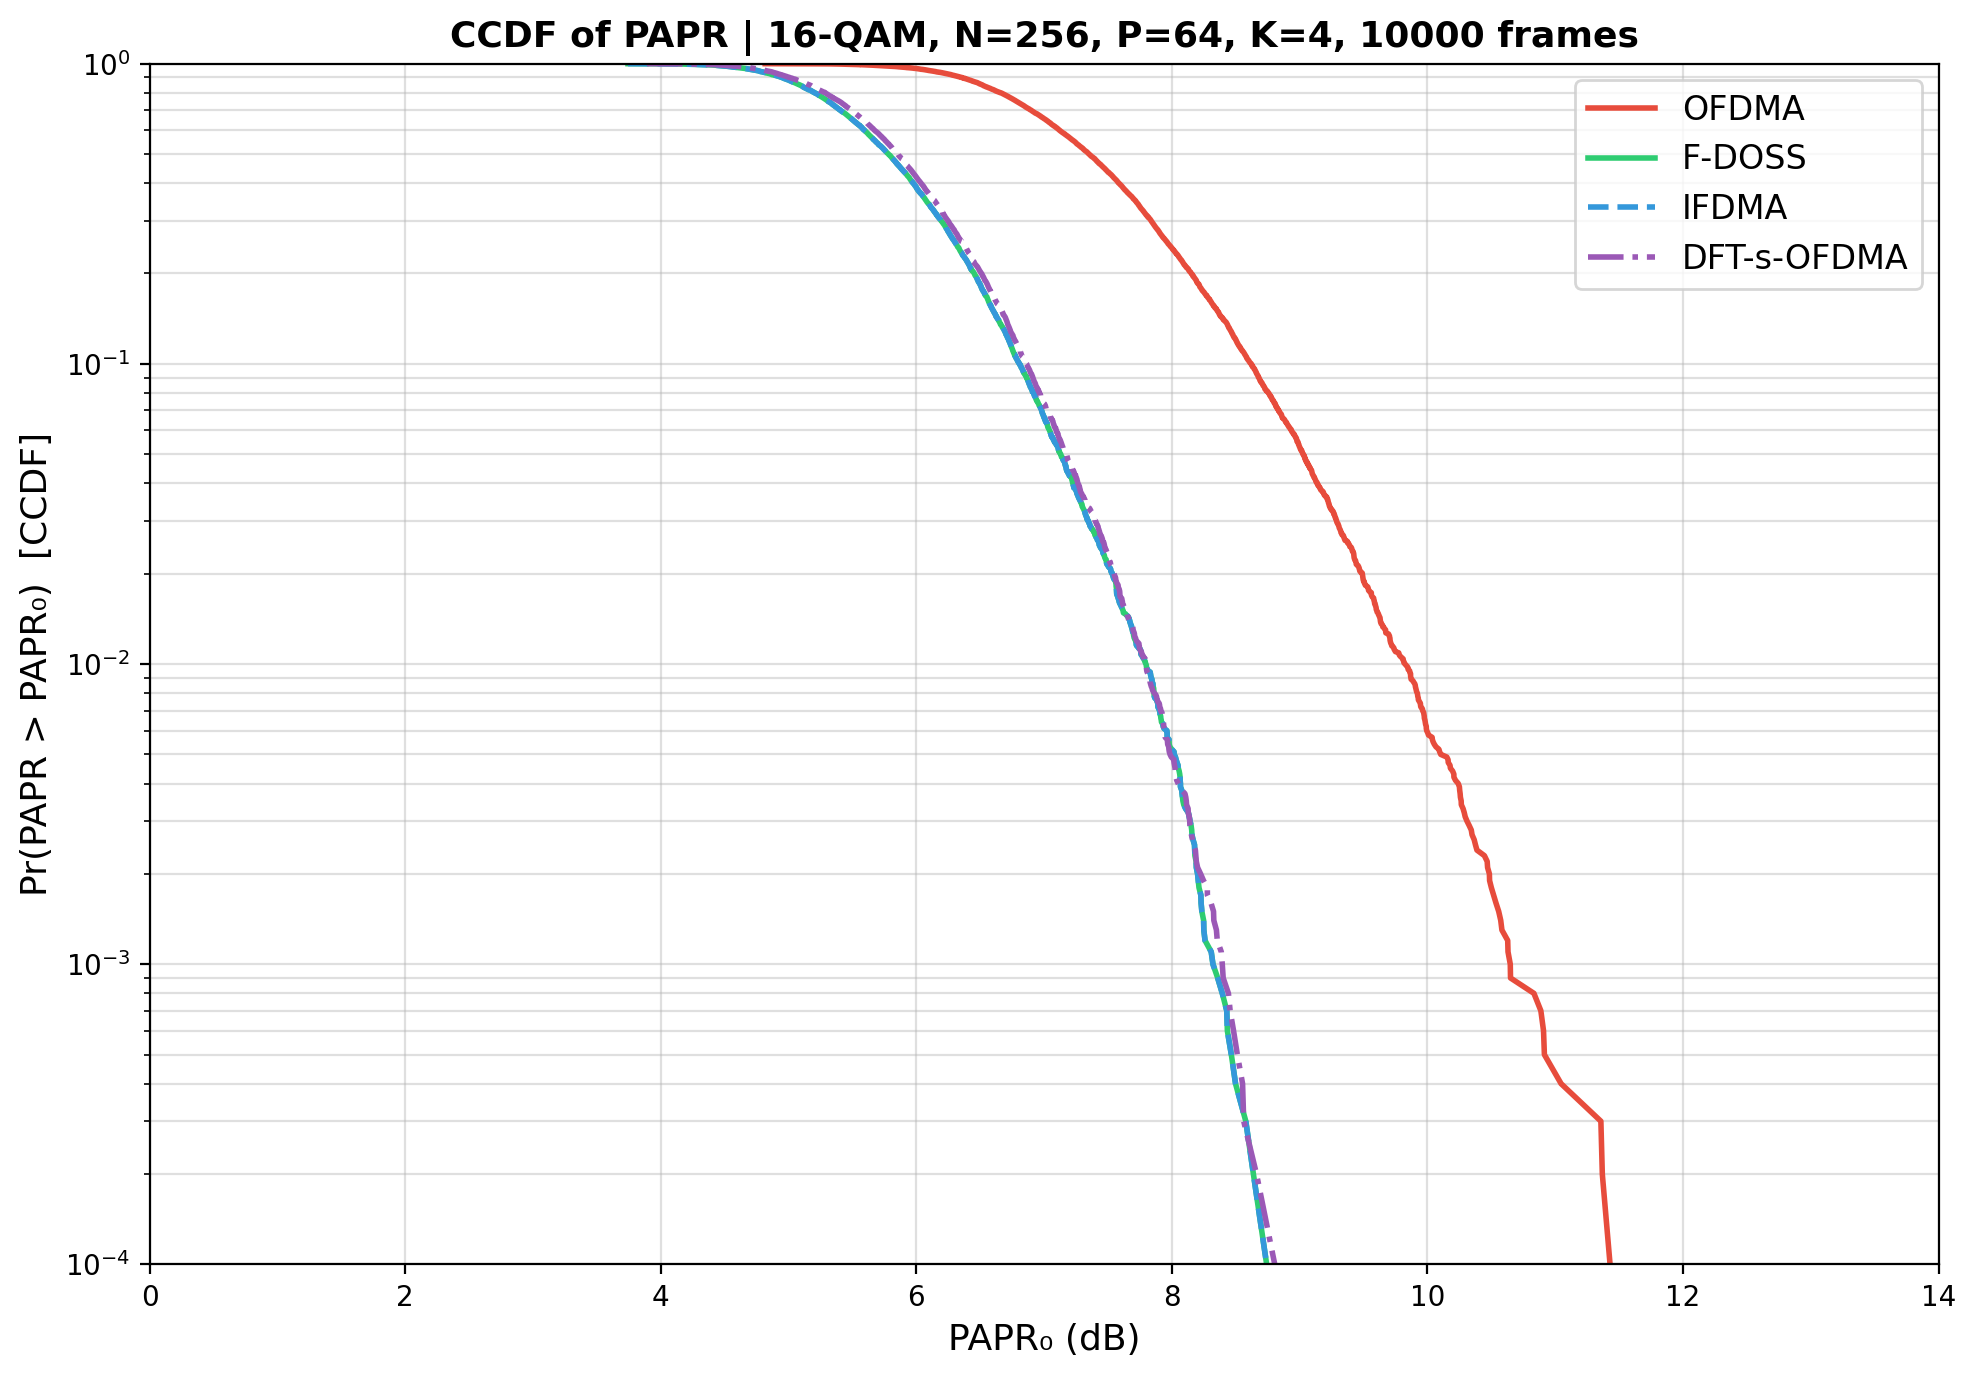
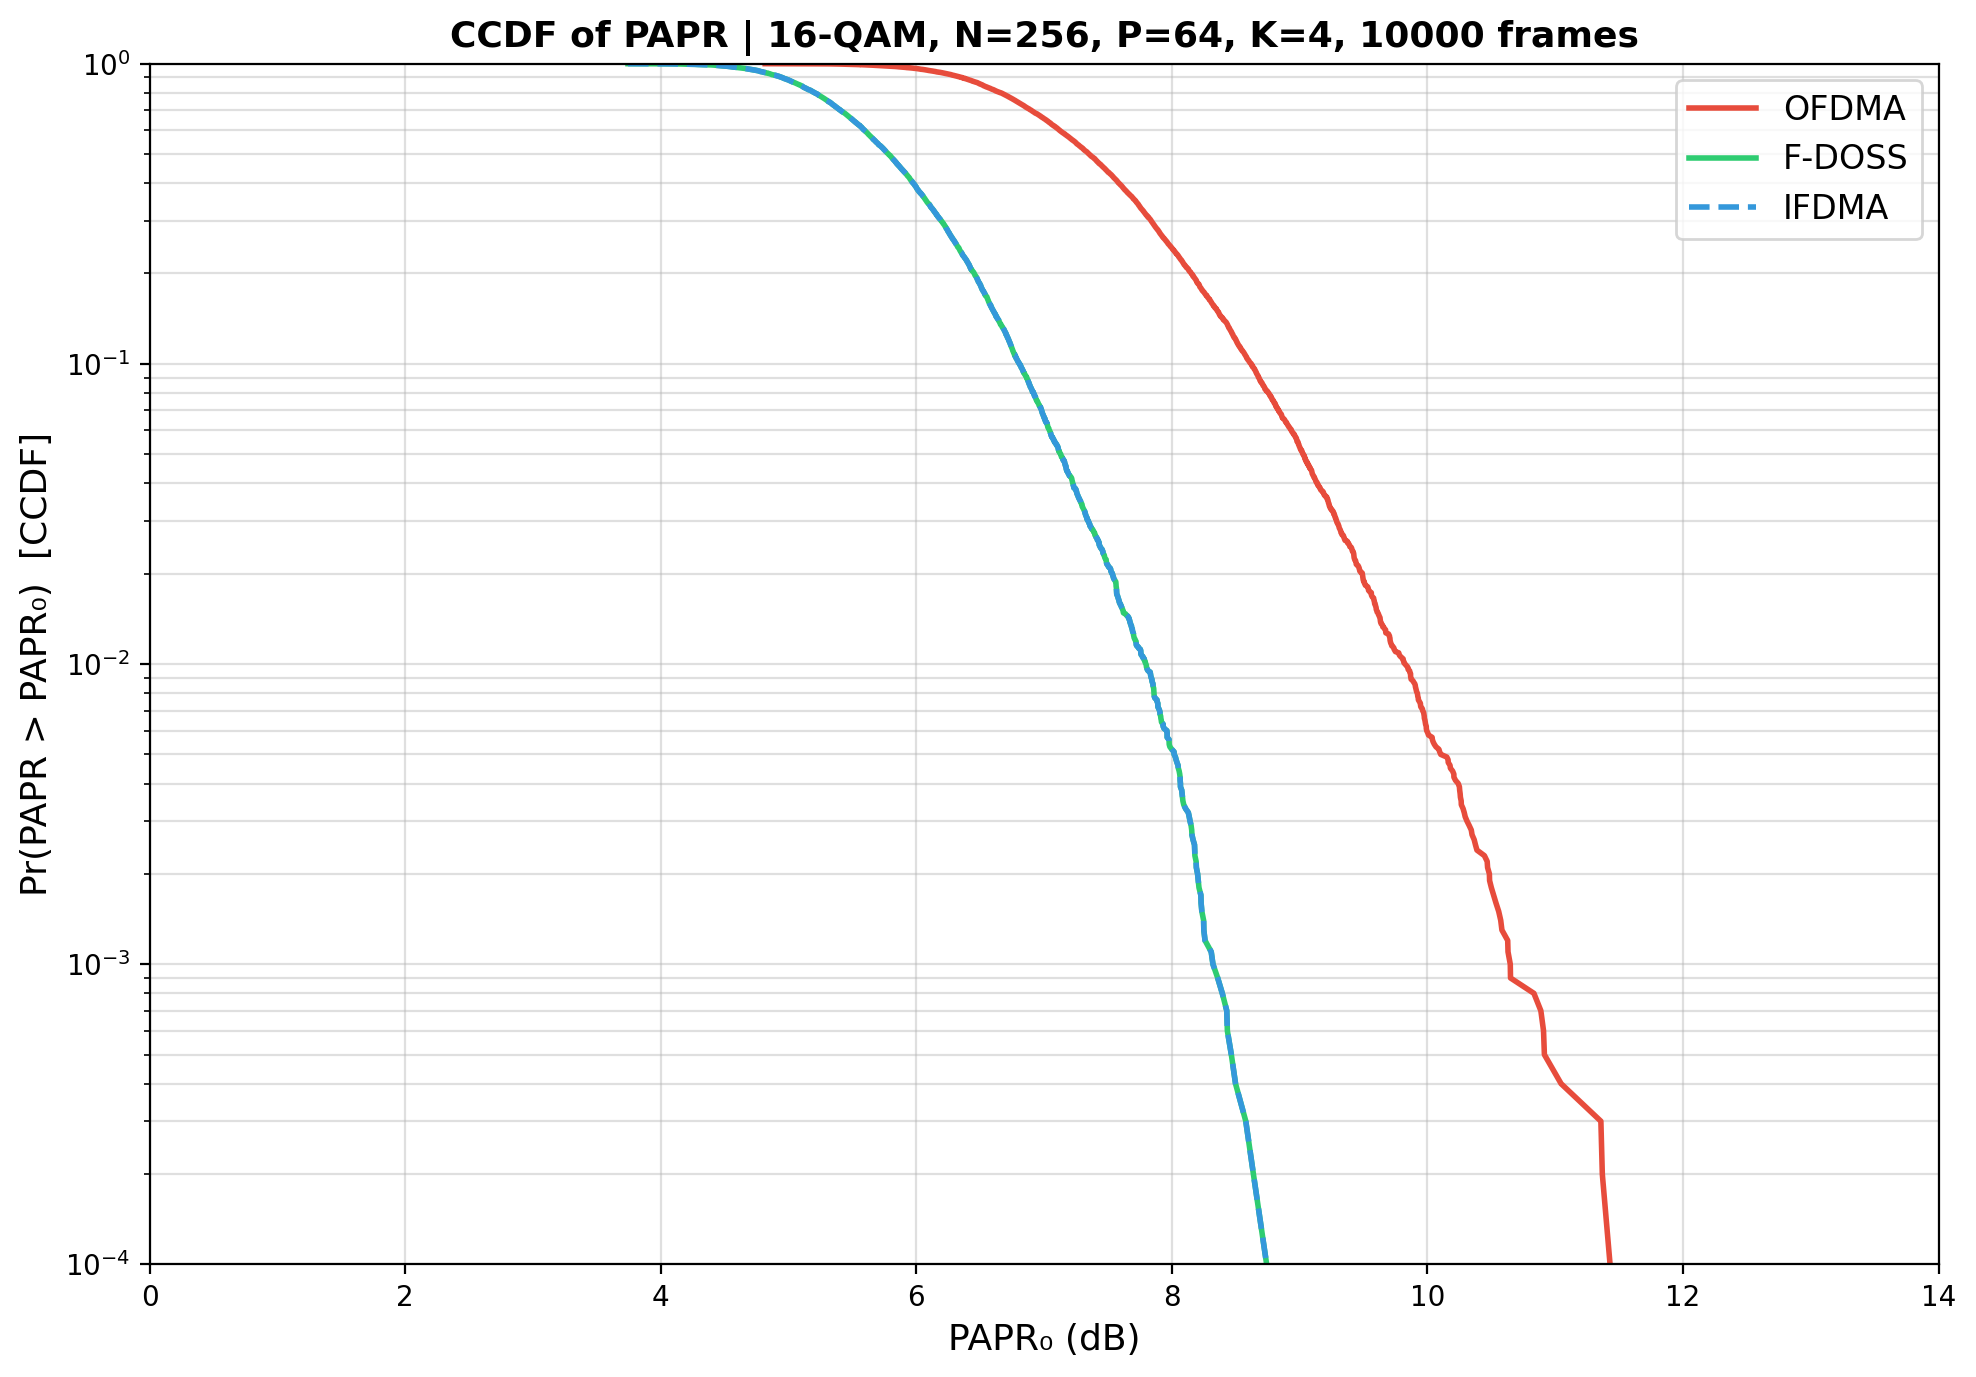
refactor: focus strictly on IFDMA and F-DOSS, move DFT-s-OFDMA to outputs_with_dfts

Changed region(s): [[0.8026, 0.0625, 0.9879, 0.2186], [0.4322, 0.0937, 0.4631, 0.1249], [0.3704, 0.0312, 0.4013, 0.0625]]

diff --git a/src/extended_analysis.py b/src/extended_analysis.py
@@ -49,13 +49,7 @@ def _build_transmitters(N_val, K_val, P_val, L_val):
         X[np.arange(P_val) * K_val] = precoded
         return _oversample(X, N_val, L_val)
 
-    def tx_dft_s_ofdma(syms):
-        precoded = fft(syms) / np.sqrt(P_val)
-        X = np.zeros(N_val, dtype=complex)
-        X[0:P_val] = precoded
-        return _oversample(X, N_val, L_val)
-
-    return [tx_ofdma, tx_fdoss, tx_ifdma, tx_dft_s_ofdma]
+    return [tx_ofdma, tx_fdoss, tx_ifdma]
 
 
 def papr_vs_N_sweep(
@@ -78,7 +72,7 @@ def papr_vs_N_sweep(
         print(f"  N={N_val}, P={P_val} ...", end=" ", flush=True)
         
         txs = _build_transmitters(N_val, K_fixed, P_val, L_OS)
-        papr_db = np.zeros((4, num_iter))
+        papr_db = np.zeros((len(txs), num_iter))
         
         for i in range(num_iter):
             syms = gen_qam_symbols(qam_order, P_val)
@@ -87,7 +81,7 @@ def papr_vs_N_sweep(
                 papr_db[s, i] = calc_papr_dB(sig)
         
         results[N_val] = papr_db
-        means = [np.mean(papr_db[s]) for s in range(4)]
+        means = [np.mean(papr_db[s]) for s in range(len(txs))]
         print(f"means: {[f'{m:.2f}' for m in means]}")
     
     return results
@@ -164,7 +158,7 @@ def papr_vs_K_sweep(
         print(f"  K={K_val}, P={P_val} ...", end=" ", flush=True)
         
         txs = _build_transmitters(N_fixed, K_val, P_val, L_OS)
-        papr_db = np.zeros((4, num_iter))
+        papr_db = np.zeros((len(txs), num_iter))
         
         for i in range(num_iter):
             syms = gen_qam_symbols(qam_order, P_val)
@@ -173,7 +167,7 @@ def papr_vs_K_sweep(
                 papr_db[s, i] = calc_papr_dB(sig)
         
         results[K_val] = papr_db
-        means = [np.mean(papr_db[s]) for s in range(4)]
+        means = [np.mean(papr_db[s]) for s in range(len(txs))]
         print(f"means: {[f'{m:.2f}' for m in means]}")
     
     return results

diff --git a/main.py b/main.py
@@ -78,7 +78,7 @@ def main():
         16: {0.01: [9.76, 9.74, 9.68, 9.68], 0.001: [10.62, 10.65, 10.57, 10.57]},
         64: {0.01: [9.70, 9.73, 9.65, 9.65], 0.001: [10.60, 10.68, 10.60, 10.60]},
     }
-    export_results(all_results, os.path.join("outputs", "papr_results.xlsx"), other_code_results=other_code)
+    export_results(all_results, os.path.join("outputs", "papr_results.xlsx"))
 
     # ── F-DOSS / IFDMA Equivalence Verification ──
     if args.equivalence:

diff --git a/src/transmitters.py b/src/transmitters.py
@@ -63,7 +63,6 @@ _REGISTRY = [
     ("OFDMA",         tx_ofdma),
     ("F-DOSS",        tx_fdoss),
     ("IFDMA",         tx_ifdma),
-    ("DFT-s-OFDMA",   tx_dft_spread_ofdma),
 ]
 
 SCHEME_NAMES.clear()
